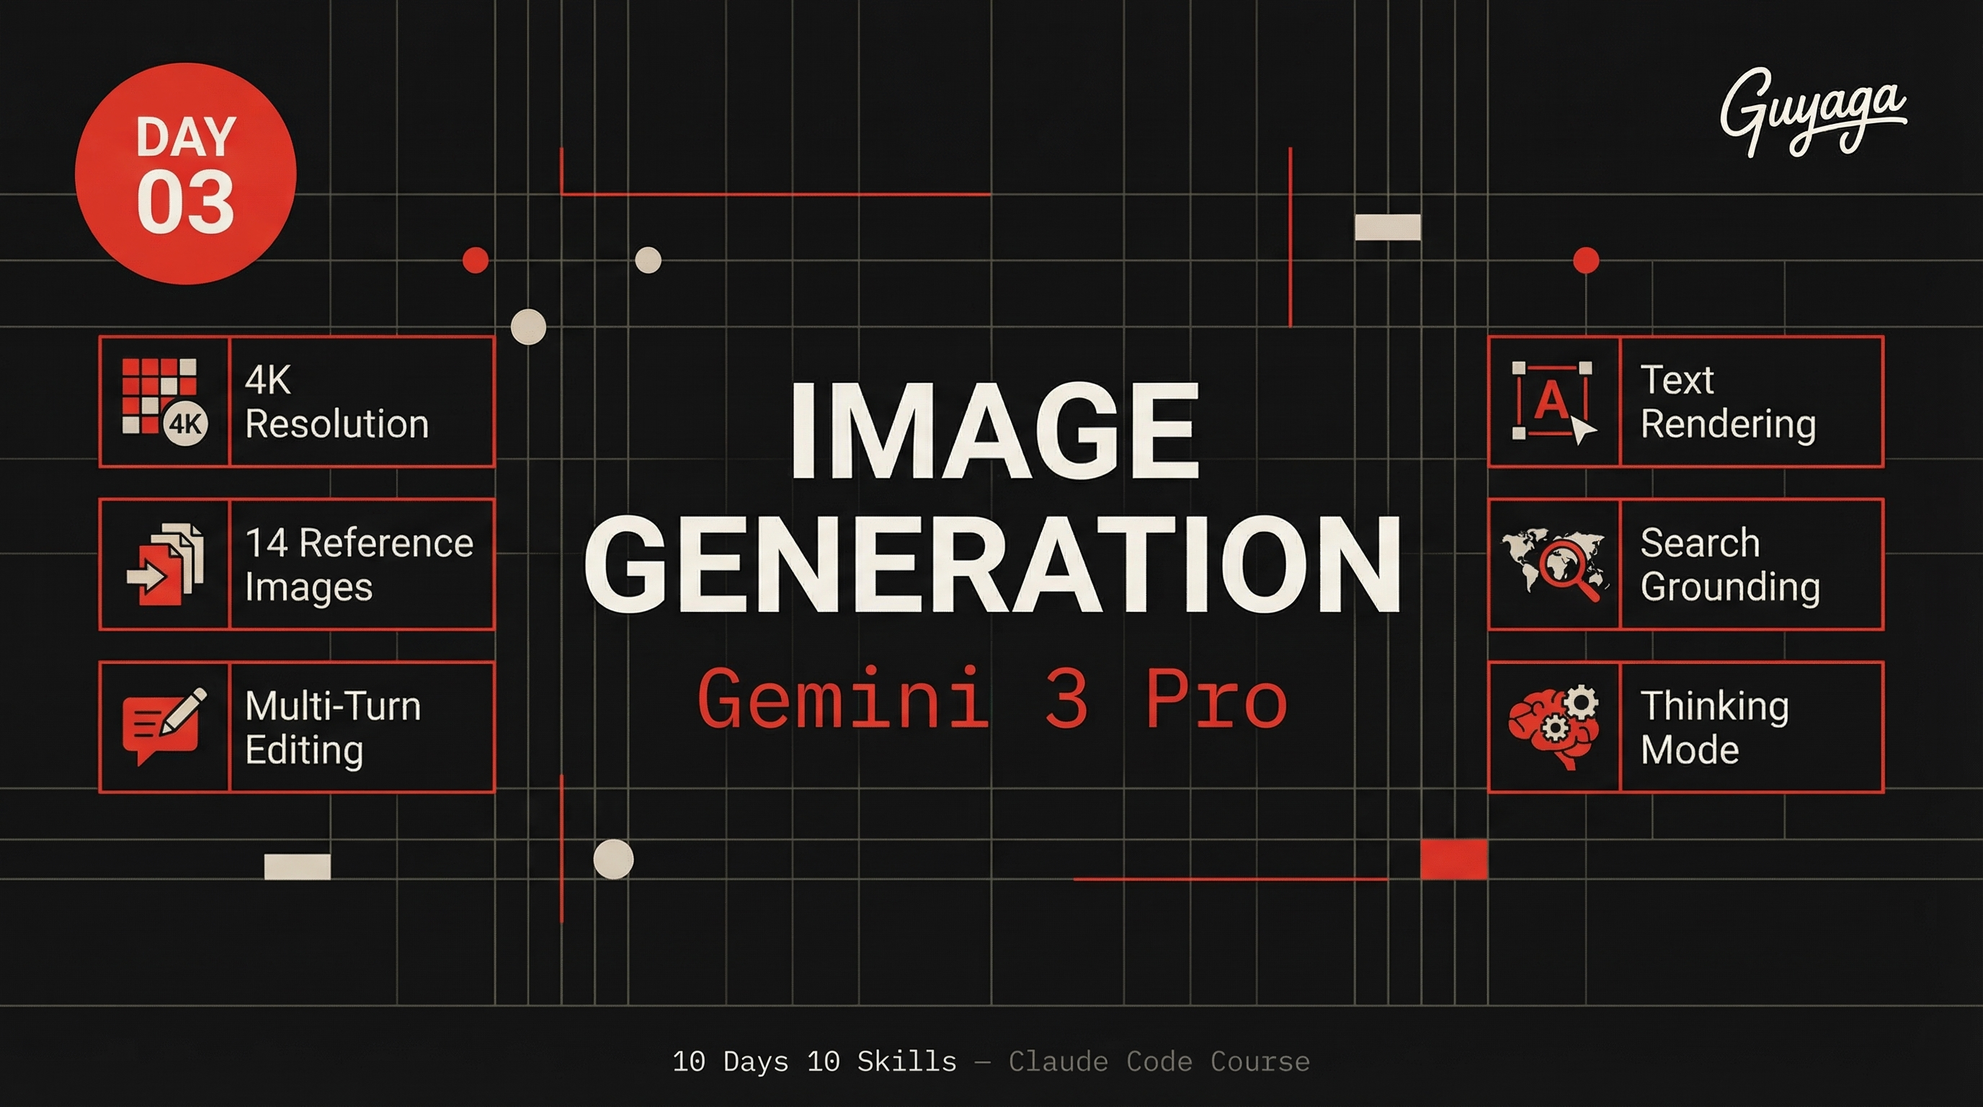
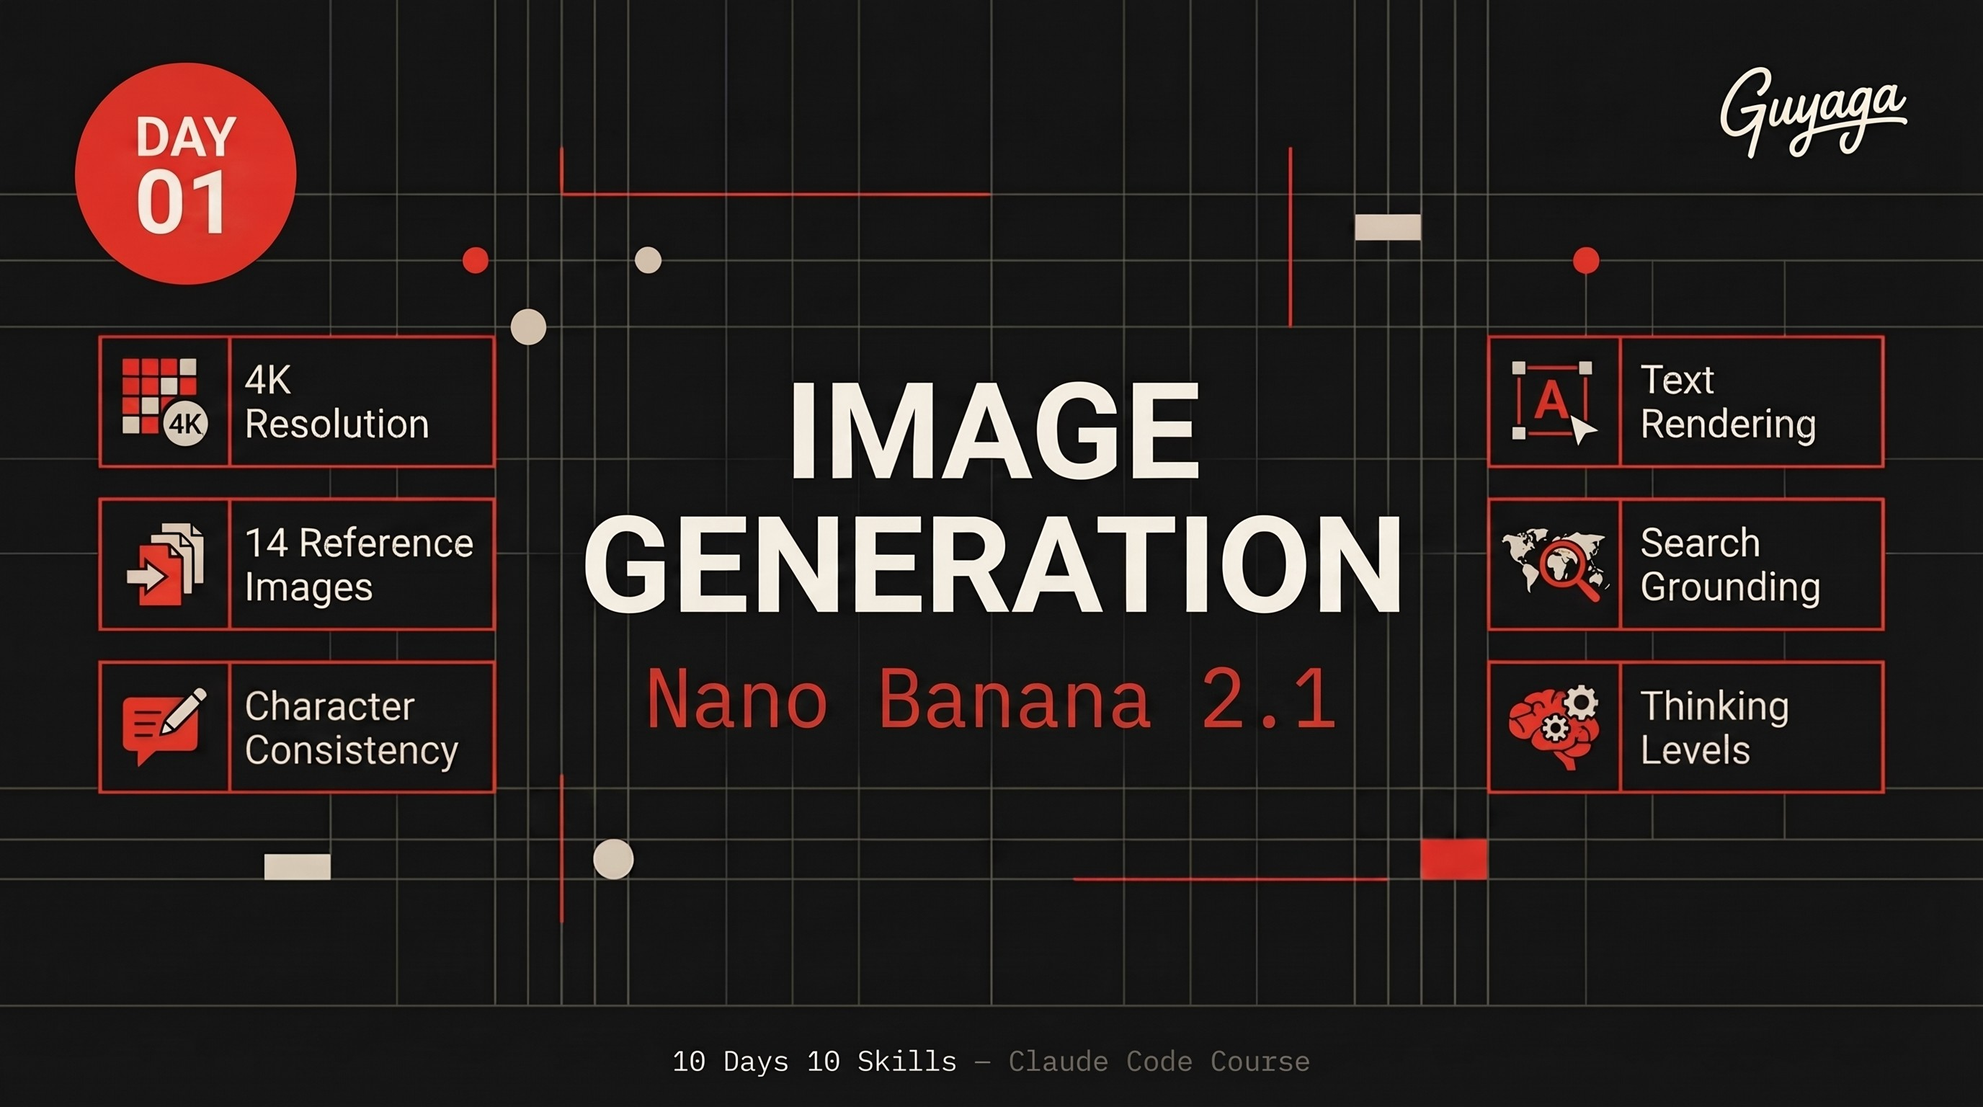
Switch to Nano Banana 2.1 (gemini-nano-banana-2.1)
- SKILL.md: 2.1 is the default, Pro kept as an option; thinking levels,
  ultra-wide ratios, Hebrew text and character-consistency tips from a
  34-case comparison; current pricing
- README: why 2.1, update prompt for existing installs, new pricing,
  Day 01 labels and guide link fixed
- cover.jpg: Day 01 / Nano Banana 2.1 (edited with 2.1 itself)

diff --git a/SKILL.md b/SKILL.md
@@ -1,12 +1,27 @@
 ---
 name: nano-banano-pro
-description: Generate and edit images using Gemini 3 Pro Image Preview (gemini-3-pro-image-preview) API. Use when the user wants to create images, edit images, generate infographics, visualizations, or any image generation task. Supports multi-turn editing, up to 14 reference images, 4K resolution, Google Search grounding, and advanced text rendering.
+description: Generate and edit images with Google's Nano Banana 2.1 (gemini-nano-banana-2.1), the default since October 2026, with Nano Banana Pro (gemini-3-pro-image) as an option. Use when the user wants to create images, edit images, generate infographics, ads, posters, social graphics, visualizations, or any image generation task. Supports multi-turn editing, up to 14 reference images, character consistency, 1K/2K/4K output, ultra-wide aspect ratios, Google Search grounding, configurable thinking, and strong text rendering including Hebrew.
 allowed-tools: Read, Write, Edit, Bash, Glob
 ---
 
-# Nano Banano Pro (Gemini 3 Pro Image Preview)
+# Nano Banana 2.1 (Gemini Image Generation)
 
-Generate and edit professional images using Google's Gemini 3 Pro Image model.
+Generate and edit professional images with Google's Gemini image models. The default model is **Nano Banana 2.1** (`gemini-nano-banana-2.1`). It's better, cheaper and supports more formats than Nano Banana Pro.
+
+## Which model to use
+
+| | **Nano Banana 2.1** (default) | Nano Banana Pro |
+|---|---|---|
+| Model code | `gemini-nano-banana-2.1` | `gemini-3-pro-image` (`gemini-3-pro-image-preview` still works) |
+| Price per 2K image | ~$0.05 (+ ~$0.01 thinking) | $0.134 |
+| Price per 4K image | $0.113 | $0.24 |
+| Speed at 2K | ~25 s (≈15 s with thinking `MINIMAL`) | ~25 s |
+| Ultra-wide 1:4, 4:1, 1:8, 8:1 | Yes | No (HTTP 400) |
+| Thinking level | `MINIMAL` / `MEDIUM` (default) / `HIGH` | Fixed |
+
+Batch mode halves both prices. Source: https://ai.google.dev/gemini-api/docs/pricing
+
+**Use 2.1 for everything by default.** In a 34-case test (Hebrew marketing, edge cases, creative work, fonts, long text, text placement, character consistency), 2.1 won 16 cases, Pro won 3 and 15 were ties. Switch to Pro only when you need a layout followed very literally: 2.1 sometimes "art-directs", for example by turning a flat poster into a mockup on a wall.
 
 ## Setup
 
@@ -36,13 +51,13 @@ import * as fs from "node:fs";
 const ai = new GoogleGenAI({ apiKey: process.env.GEMINI_API_KEY });
 
 const response = await ai.models.generateContent({
-  model: 'gemini-3-pro-image-preview',
+  model: 'gemini-nano-banana-2.1',
   contents: 'Your prompt here',
   config: {
     responseModalities: ['TEXT', 'IMAGE'],
     imageConfig: {
-      aspectRatio: '16:9',  // Options: '1:1', '4:3', '3:4', '16:9', '9:16', '5:4'
-      imageSize: '2K',      // Options: '1K', '2K', '4K' (must be uppercase)
+      aspectRatio: '16:9',  // see the aspect ratio list below
+      imageSize: '2K',      // '1K', '2K', '4K' (must be uppercase)
     },
   },
 });
@@ -58,6 +73,26 @@ for (const part of response.candidates[0].content.parts) {
 }
 ```
 
+## Thinking Level (2.1 only)
+
+2.1 reasons before drawing. Pick the level per job:
+
+| Level | Time at 2K | Use for |
+|---|---|---|
+| `MINIMAL` | ~15 s | Drafts, quick variations, simple scenes |
+| `MEDIUM` (default) | ~25 s | Most work |
+| `HIGH` | 25–50 s | Text-heavy images (especially Hebrew), exact counts, hands, complex instructions |
+
+```javascript
+config: {
+  responseModalities: ['TEXT', 'IMAGE'],
+  imageConfig: { aspectRatio: '9:16', imageSize: '2K' },
+  thinkingConfig: { thinkingLevel: 'HIGH' },
+}
+```
+
+In testing, `HIGH` fixed a Hebrew spelling mistake and a finger-count mistake that `MEDIUM` made.
+
 ## Multi-Turn Conversational Editing
 
 Use chat sessions to iteratively edit images:
@@ -66,7 +101,7 @@ Use chat sessions to iteratively edit images:
 const ai = new GoogleGenAI({ apiKey: process.env.GEMINI_API_KEY });
 
 const chat = ai.chats.create({
-  model: "gemini-3-pro-image-preview",
+  model: "gemini-nano-banana-2.1",
   config: {
     responseModalities: ['TEXT', 'IMAGE'],
     tools: [{googleSearch: {}}],
@@ -91,11 +126,24 @@ response = await chat.sendMessage({
 });
 ```
 
+To edit an existing image file in one call, send the image with the instruction and say exactly what must stay the same:
+
+```javascript
+const response = await ai.models.generateContent({
+  model: 'gemini-nano-banana-2.1',
+  contents: [{ role: 'user', parts: [
+    { text: 'Keep the shoe, splash, composition and colors identical. Replace the Hebrew text with English: "Run Further".' },
+    { inlineData: { mimeType: 'image/png', data: fs.readFileSync('ad.png').toString('base64') } },
+  ]}],
+  config: { responseModalities: ['TEXT', 'IMAGE'], imageConfig: { aspectRatio: '1:1', imageSize: '2K' } },
+});
+```
+
 ## Using Reference Images (Up to 14)
 
 Mix reference images for the final output:
-- Up to 6 object images (high-fidelity inclusion)
-- Up to 5 human images (character consistency)
+- Up to 10 object images (high-fidelity inclusion)
+- Up to 4 characters kept consistent
 
 ```javascript
 const contents = [
@@ -106,7 +154,7 @@ const contents = [
 ];
 
 const response = await ai.models.generateContent({
-  model: 'gemini-3-pro-image-preview',
+  model: 'gemini-nano-banana-2.1',
   contents: contents,
   config: {
     responseModalities: ['TEXT', 'IMAGE'],
@@ -115,13 +163,35 @@ const response = await ai.models.generateContent({
 });
 ```
 
+## Character Consistency
+
+What held up across scenes, a two-person scene, a turnaround sheet and a 4-page storybook:
+
+1. **Start from a clean reference**: a portrait on a plain white background, upper body, even light. Distinctive features (glasses, a scarf, a hairstyle) make the character easier to keep.
+2. **List what must stay the same** in every prompt: "keep her face, curly auburn hair, round glasses, nose ring and mustard denim jacket identical".
+3. **Several people**: refer to them by order ("the woman from the first reference and the man from the second").
+4. **Series without a reference** (e.g. a children's book): use a chat session, describe the character fully in the first message, then say "same character, same style" on every following page.
+5. **Turnaround sheets** work well: "four full-body views side by side on white: front, three-quarter, side profile, back".
+
+## Hebrew and Other Text
+
+Both models write Hebrew well, but mistakes grow with text length. What we learned from testing:
+
+- **Put every text in quotes** and add: `CRITICAL: Render all Hebrew text crisply, right-to-left, spelled exactly as given, letter by letter. No other text.`
+- **Short text** (headlines, buttons, menus, tables, FAQs) usually comes out perfect.
+- **Proofread anything over about 30 words.** Long paragraphs can come back with a merged or doubled word. Use thinking `HIGH` for text-heavy Hebrew images.
+- **Font names are a hint, not a guarantee.** "Frank Ruhl Libre" or "Heebo Black" gets you the right family (serif vs sans, weight) but not the exact font. Describe the look as well: "tall condensed bold display", "classic Hebrew book serif with thick-thin contrast", "thin hand-drawn marker".
+- **Placement works**: name where each text goes ("round sticker in the top-LEFT corner", "lower-third bar on the bottom RIGHT", "curved along the top arc of the stamp"). Text on surfaces in a photo (signs, T-shirts, chalkboards, posters) also works.
+- **Check punctuation in speech bubbles.** A question mark can land on the wrong side in RTL text.
+- **Mixed Hebrew and English** (Heblish) works. Say that English words stay left-to-right inside the Hebrew line.
+
 ## Google Search Grounding
 
 Generate images based on real-time data (weather, stocks, events):
 
 ```javascript
 const response = await ai.models.generateContent({
-  model: 'gemini-3-pro-image-preview',
+  model: 'gemini-nano-banana-2.1',
   contents: 'Visualize the current weather forecast for San Francisco as a modern chart',
   config: {
     responseModalities: ['TEXT', 'IMAGE'],
@@ -137,10 +207,11 @@ const response = await ai.models.generateContent({
 
 | Option | Values | Notes |
 |--------|--------|-------|
-| `imageSize` | `'1K'`, `'2K'`, `'4K'` | Must be uppercase! |
-| `aspectRatio` | `'1:1'`, `'4:3'`, `'3:4'`, `'16:9'`, `'9:16'`, `'5:4'` | |
+| `imageSize` | `'1K'`, `'2K'`, `'4K'` | Must be uppercase. 1K ≈ 15–20 s, 2K ≈ 25 s, 4K ≈ 60–80 s |
+| `aspectRatio` | `'1:1'`, `'2:3'`, `'3:2'`, `'3:4'`, `'4:3'`, `'4:5'`, `'5:4'`, `'9:16'`, `'16:9'`, `'21:9'`, plus on 2.1 only `'1:4'`, `'4:1'`, `'1:8'`, `'8:1'` | Ultra-wide is seamless on 2.1 (good for website heroes and banners) |
 | `responseModalities` | `['TEXT', 'IMAGE']` | Required for image output |
 | `tools` | `[{googleSearch: {}}]` | Enable real-time data grounding |
+| `thinkingConfig` | `{ thinkingLevel: 'MINIMAL' \| 'MEDIUM' \| 'HIGH' }` | 2.1 only |
 
 ## Accessing Thinking Process
 
@@ -167,11 +238,12 @@ When using chat/multi-turn, thought signatures are handled automatically by the 
 ## Model Capabilities
 
 - High-resolution output: 1K, 2K, 4K
-- Advanced text rendering: legible text for infographics, menus, diagrams
+- Advanced text rendering: legible text for infographics, menus, diagrams, Hebrew
 - Google Search grounding: real-time data visualization
-- Thinking mode: reasoning through complex prompts
-- Up to 14 reference images
+- Configurable thinking: minimal, medium, high
+- Up to 14 reference images, up to 4 consistent characters
 - Multi-turn conversational editing
+- Ultra-wide and ultra-tall formats
 
 ## Common Use Cases
 
@@ -181,6 +253,7 @@ When using chat/multi-turn, thought signatures are handled automatically by the 
 4. **Character consistency**: Maintain same characters across images
 5. **Style transfer**: Apply artistic styles to concepts
 6. **Iterative refinement**: Edit and refine through conversation
+7. **Localization**: Swap the text language in a finished ad while keeping the image
 
 ## Prompting Best Practices (Official Guide)
 
@@ -219,7 +292,7 @@ Example: "Search for current weather in San Francisco. Use this data to create a
 #### 5. Text Rendering & Localization
 Rules for best typographic results:
 - **Use quotes**: Enclose desired words in quotes (e.g., `"Happy Birthday"`)
-- **Choose a font**: Describe typography style or name the font (e.g., "bold, white, sans-serif font" or "Century Gothic 12px")
+- **Choose a font**: Describe the typography style, and optionally name the font (e.g., "bold, white, sans-serif font")
 - **Translate and localize**: Write prompt in one language, specify target language for text output
 - **Text-first hack**: When generating text-heavy images, first converse to generate text concepts, then ask for the image with that text
 
@@ -245,14 +318,15 @@ Don't just say "suit jacket" — say "navy blue tweed". Not "armor" — say "orn
 
 ### Tech Specs Reference
 
-| Spec | Nano Banana Pro (Gemini 3 Pro Image) | Nano Banana 2 (Gemini 3.1 Flash Image) |
-|------|--------------------------------------|----------------------------------------|
-| Input tokens | 65,536 max | 131,072 max |
+| Spec | Nano Banana 2.1 (default) | Nano Banana Pro |
+|------|---------------------------|-----------------|
+| Model code | `gemini-nano-banana-2.1` | `gemini-3-pro-image` |
+| Input tokens | 131,072 max | 65,536 max |
 | Output tokens | 32,768 max | 32,768 max |
-| Resolutions | 1K, 2K, 4K | 0.5K, 1K, 2K, 4K |
-| Aspect ratios | 1:1, 3:2, 2:3, 3:4, 4:3, 4:5, 5:4, 9:16, 16:9, 21:9 | All of Pro + 1:4, 4:1, 1:8, 8:1 |
-| Reference images | Up to 14 | Up to 14 |
-| Image formats | PNG, JPEG, WebP, HEIC, HEIF | PNG, JPEG, WebP, HEIC, HEIF |
-| Knowledge cutoff | January 2025 | January 2025 |
+| Inputs | Text, image, video, PDF | Text, image |
+| Resolutions | 1K, 2K, 4K | 1K, 2K, 4K |
+| Aspect ratios | 1:1, 2:3, 3:2, 3:4, 4:3, 4:5, 5:4, 9:16, 16:9, 21:9, 1:4, 4:1, 1:8, 8:1 | 1:1, 2:3, 3:2, 3:4, 4:3, 4:5, 5:4, 9:16, 16:9, 21:9 |
+| Reference images | Up to 14 (4 characters, 10 objects) | Up to 14 |
+| Thinking | Minimal / medium / high | Fixed |
 | Live data | Google Search grounding | Google Search grounding |
 | Safety | C2PA Content Credentials + SynthID watermark | C2PA Content Credentials + SynthID watermark |

diff --git a/README.md b/README.md
@@ -1,13 +1,13 @@
 <p align="center">
-  <img src="cover.jpg" alt="Day 03 — Image Generation with Gemini 3 Pro" width="100%">
+  <img src="cover.jpg" alt="Day 01 — Image Generation with Nano Banana 2.1" width="100%">
 </p>
 
-<h1 align="center">Day 03 — Image Generation</h1>
+<h1 align="center">Day 01 — Image Generation</h1>
 <p align="center">
   <strong>10 Days 10 Skills</strong> · Claude Code Course by <a href="https://bestguy.ai">Guy Aga</a>
 </p>
 <p align="center">
-  <img src="https://img.shields.io/badge/Service-Gemini%203%20Pro-E63B2E?style=flat-square" alt="Gemini 3 Pro">
+  <img src="https://img.shields.io/badge/Service-Nano%20Banana%202.1-E63B2E?style=flat-square" alt="Nano Banana 2.1">
   <img src="https://img.shields.io/badge/Skill-nano--banano--pro-111111?style=flat-square" alt="Skill">
   <img src="https://img.shields.io/badge/Level-Beginner-E8E4DD?style=flat-square&labelColor=111111" alt="Beginner">
 </p>
@@ -16,7 +16,7 @@
 
 ## What is This?
 
-This skill lets you **generate and edit professional images** directly from Claude Code using Google's Gemini 3 Pro model. No Photoshop, no design tools, no design skills needed — just describe what you want in words.
+This skill lets you **generate and edit professional images** directly from Claude Code using Google's **Nano Banana 2.1** model (`gemini-nano-banana-2.1`). No Photoshop, no design tools, no design skills needed — just describe what you want in words.
 
 ### What Can You Create?
 
@@ -27,16 +27,28 @@ This skill lets you **generate and edit professional images** directly from Clau
 - **Data visualizations** — Charts and graphs from real-time data
 - **Photo editing** — Edit existing photos with text prompts
 
-### Why Gemini 3 Pro?
+### Why Nano Banana 2.1?
 
 | Feature | What It Means for You |
 |---------|----------------------|
 | **4K Resolution** | Print-quality images, not blurry thumbnails |
-| **Text Rendering** | Actually readable text on images (most AI models fail at this) |
+| **Text Rendering** | Readable text on images, including Hebrew |
 | **14 Reference Images** | Send your logo, photos, examples — the AI follows them |
+| **Character Consistency** | Keep the same person across scenes, a storybook or a whole campaign |
 | **Multi-Turn Editing** | Generate an image, then say "make the background blue" — it remembers |
 | **Google Search Grounding** | Create visuals based on real-time data (weather, stocks, trends) |
-| **Thinking Mode** | The model reasons through complex prompts for better results |
+| **Thinking Levels** | Minimal for fast drafts, high for text-heavy designs |
+| **Ultra-Wide Formats** | 4:1 and 8:1 banners and website heroes, seamless |
+
+### New in October 2026: Nano Banana 2.1 replaces Nano Banana Pro
+
+We tested both models on 34 identical prompts: Hebrew ads, menus, infographics, long text, fonts, text placement, character consistency and tricky edge cases. **Nano Banana 2.1 won 16, Pro won 3, and 15 were ties.** It also costs about 2.5× less (~$0.05 vs $0.134 per 2K image). The skill now uses 2.1 by default and keeps Pro available for layouts that must be followed very literally.
+
+**Already installed the skill?** Paste this into Claude Code:
+
+```
+Update my nano-banano-pro skill: cd into ~/.claude/skills/nano-banano-pro and run git pull. If it isn't a git folder, replace its SKILL.md with the latest one from https://github.com/guyaga/10d10s-day01-image-generation. Then confirm the skill now uses gemini-nano-banana-2.1.
+```
 
 ---
 
@@ -47,7 +59,7 @@ Before you start, make sure you have:
 - [ ] **Claude Code** installed (Pro or Max subscription)
 - [ ] **Node.js 20+** installed on your computer
 - [ ] A **Google AI Studio** account
-- [ ] A **Gemini API Key** (pay-as-you-go — ~$0.13 per 2K image)
+- [ ] A **Gemini API Key** (pay-as-you-go — ~$0.05 per 2K image)
 
 ---
 
@@ -58,7 +70,7 @@ Before you start, make sure you have:
 3. Select or create a Google Cloud project
 4. Copy your API key
 
-> **Important:** Gemini API uses pay-as-you-go pricing. Set up a [Google Cloud billing profile](https://console.cloud.google.com/billing). Each 2K image costs ~$0.13 ($0.24 for 4K, 50% off with batch mode). Start with **$5-10 in credits** — that's plenty for this lesson and beyond.
+> **Important:** Gemini API uses pay-as-you-go pricing. Set up a [Google Cloud billing profile](https://console.cloud.google.com/billing). Each 2K image costs about $0.05 ($0.113 for 4K, 50% off with batch mode). Start with **$5-10 in credits** — that's well over 100 images.
 
 ---
 
@@ -130,14 +142,15 @@ import { GoogleGenAI } from "@google/genai";
 const ai = new GoogleGenAI({ apiKey: process.env.GEMINI_API_KEY });
 
 const response = await ai.models.generateContent({
-  model: 'gemini-3-pro-image-preview',
+  model: 'gemini-nano-banana-2.1',
   contents: 'Your prompt here',
   config: {
     responseModalities: ['TEXT', 'IMAGE'],
     imageConfig: {
-      aspectRatio: '16:9',  // 1:1, 4:3, 3:4, 16:9, 9:16, 5:4
+      aspectRatio: '16:9',  // 1:1, 4:5, 3:4, 16:9, 9:16, 21:9, 4:1, 8:1 ...
       imageSize: '2K',      // 1K, 2K, 4K
     },
+    thinkingConfig: { thinkingLevel: 'MEDIUM' },  // MINIMAL (fast) / MEDIUM / HIGH (text-heavy)
   },
 });
 ```
@@ -154,8 +167,10 @@ and my photo from me.jpg in Swiss design style
 ```
 
 The skill supports **up to 14 reference images**:
-- Up to 6 object images (logos, products, brand assets)
-- Up to 5 human images (photos of people for consistency)
+- Up to 10 object images (logos, products, brand assets)
+- Up to 4 people kept consistent (photos of people for consistency)
+
+**Tip for consistent characters:** start from a portrait on a plain white background, and in every prompt list what must stay the same ("keep her face, curly hair, round glasses and yellow jacket identical").
 
 ---
 
@@ -179,8 +194,9 @@ Each edit builds on the previous result — like having a conversation with a de
 | Option | Values | What It Does |
 |--------|--------|-------------|
 | `imageSize` | `1K`, `2K`, `4K` | Output resolution (always use 2K minimum) |
-| `aspectRatio` | `1:1`, `4:3`, `3:4`, `16:9`, `9:16`, `5:4` | Image dimensions |
+| `aspectRatio` | `1:1`, `4:5`, `3:4`, `4:3`, `16:9`, `9:16`, `21:9`, `4:1`, `8:1` and more | Image dimensions |
 | `tools` | `[{googleSearch: {}}]` | Enables real-time data in images |
+| `thinkingConfig` | `MINIMAL`, `MEDIUM`, `HIGH` | Speed vs care. `MINIMAL` ≈ 15 s, `HIGH` for lots of text |
 
 ### Common Aspect Ratios
 
@@ -191,6 +207,7 @@ Each edit builds on the previous result — like having a conversation with a de
 | YouTube Thumbnail | `16:9` |
 | LinkedIn Banner | `16:9` |
 | Presentation Slide | `16:9` |
+| Website Hero Banner | `4:1` or `8:1` |
 
 ---
 
@@ -201,6 +218,8 @@ Each edit builds on the previous result — like having a conversation with a de
 3. **Describe layout** — "Logo top-left, title center, photo on right side"
 4. **Reference styles** — "Like a high-end tech conference banner"
 5. **Always use 2K** — Never use 1K, the quality difference is huge
+6. **Hebrew text** — Put every text in quotes and ask for it "spelled exactly as given, right-to-left". Proofread anything over about 30 words
+7. **Fonts** — Describe the look ("tall condensed bold", "classic book serif") rather than relying only on a font name
 
 ---
 
@@ -211,6 +230,7 @@ Each edit builds on the previous result — like having a conversation with a de
 | "API key not found" | Make sure `GEMINI_API_KEY` is set in your environment or `.env` file |
 | Blurry output | Change `imageSize` from `'1K'` to `'2K'` |
 | Text not readable | Add "text must be perfectly legible" to your prompt |
+| Typo in Hebrew text | Regenerate with `thinkingLevel: 'HIGH'`, or shorten the text |
 | Wrong colors | Specify exact hex codes in the prompt |
 | Generation fails | Check your API quota at [Google AI Studio](https://aistudio.google.com/) |
 
@@ -219,9 +239,9 @@ Each edit builds on the previous result — like having a conversation with a de
 ## Links
 
 - [Google AI Studio — Get API Key](https://aistudio.google.com/apikey)
-- [Gemini API Pricing](https://ai.google.dev/pricing)
+- [Gemini API Pricing](https://ai.google.dev/gemini-api/docs/pricing)
 - [Course Page — bestguy.ai](https://bestguy.ai/course/10-days-10-skills)
-- [HTML Skill Guide (Hebrew)](https://bestguy.ai/course/guides/day03-image-generation.html)
+- [HTML Skill Guide (Hebrew)](https://bestguy.ai/course/guides/day01-image-generation.html)
 
 ---
 
